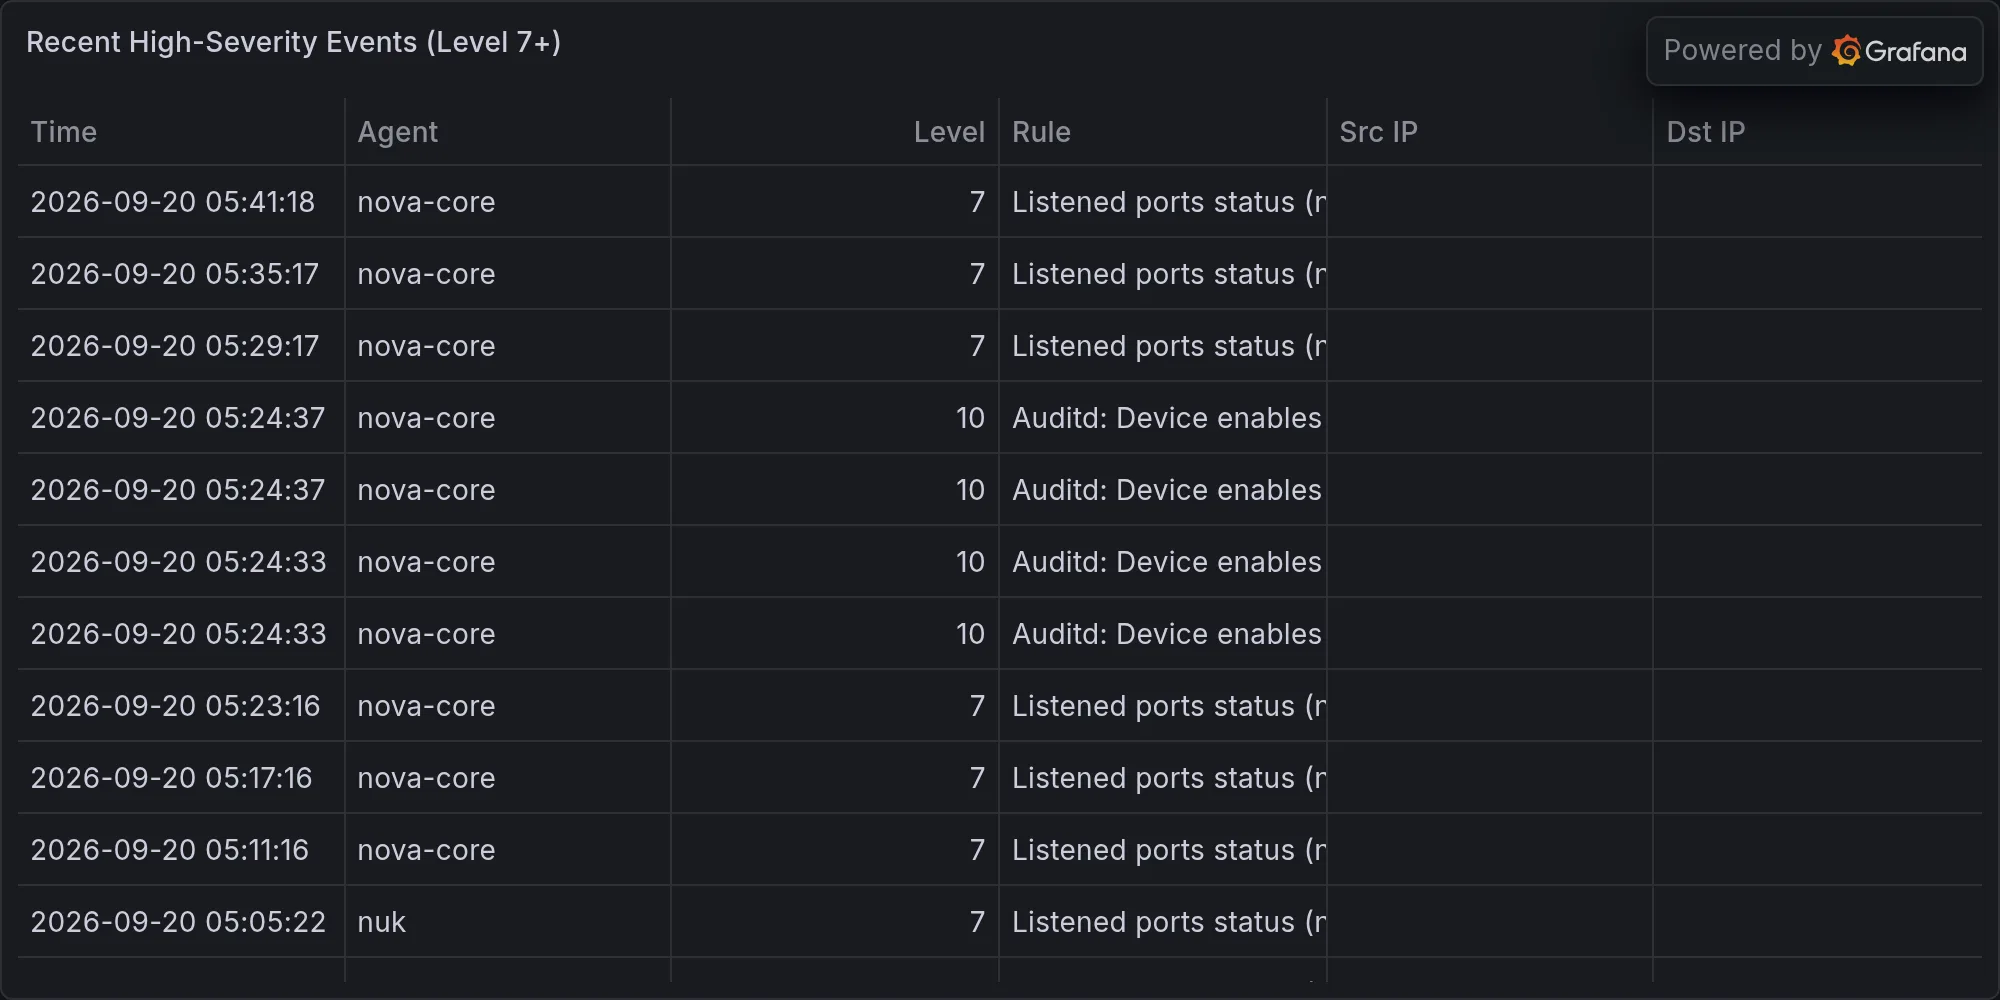
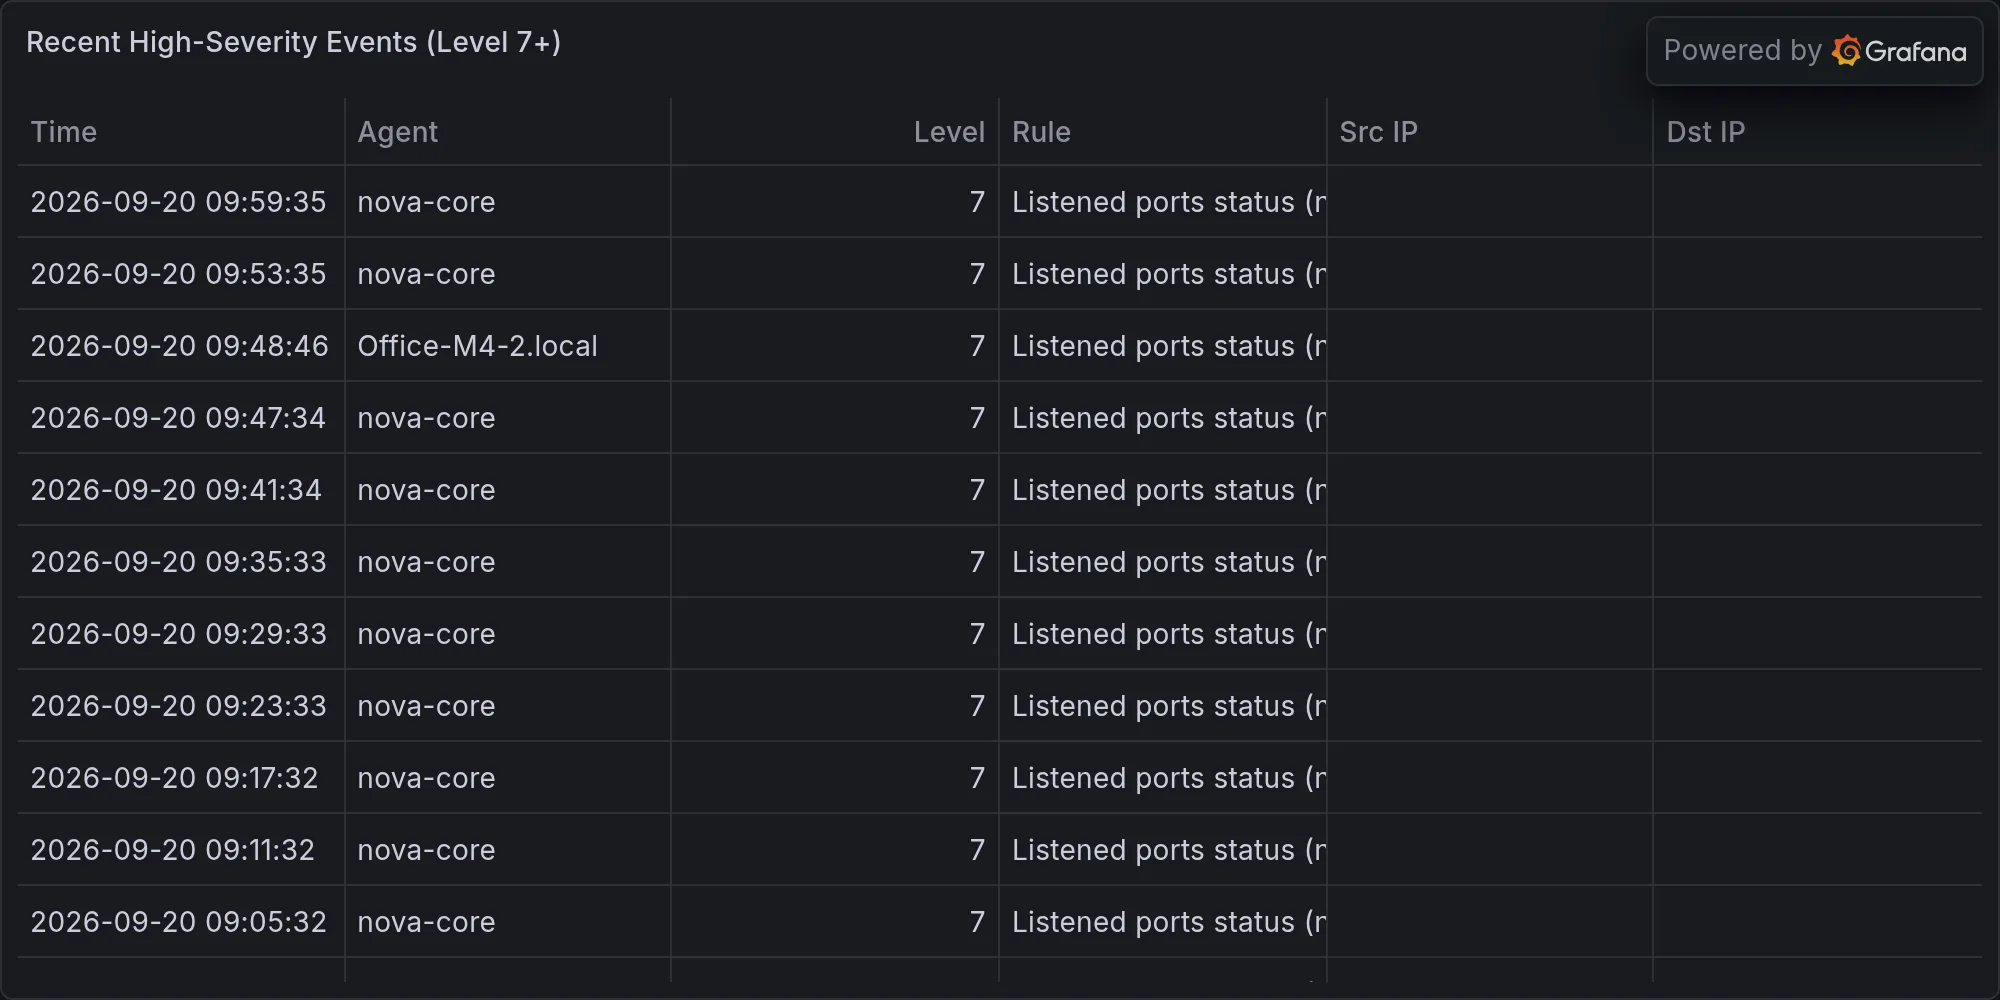
security: 2026-09-20 — **DEVELOPING — macOS Tahoe 26.7 Released; CVE Deta

diff --git a/content/operations/2026-09-20-developing-macos-tahoe-26-7-released-cve-details-unconfirmed.md b/content/operations/2026-09-20-developing-macos-tahoe-26-7-released-cve-details-unconfirmed.md
@@ -1,0 +1,45 @@
+---
+title: "🛡 **DEVELOPING — macOS Tahoe 26.7 Released; CVE Details Unconfirmed**"
+date: 2026-09-20T10:00:38-07:00
+draft: false
+categories: ["operations"]
+tags: ["breaking-alert", "apple-security-update-macos-tahoe-26-7", "security"]
+description: "BREAKING: Apple Security Update: macOS Tahoe 26.7"
+cover:
+  image: "/images/operations/2026-09-20-developing-macos-tahoe-26-7-released-cve-details-unconfirmed.webp"
+  alt: "**DEVELOPING — macOS Tahoe 26.7 Released; CVE Details Unconfirmed**"
+  relative: false
+---
+
+*Published Sunday, September 20, 2026 at 10:00 AM PT*
+
+![**DEVELOPING — macOS Tahoe 26.7 Released; CVE Details Unconfirmed**](/images/operations/2026-09-20-developing-macos-tahoe-26-7-released-cve-details-unconfirmed.webp)
+
+BLUF: Apple released macOS Tahoe 26.7 with security patches. CVE details and severity distribution cannot be confirmed from available material — the support.apple.com reference is cited but unaccessible. Recommend deferring deployment decisions until official CVE advisories are reviewed. Status: monitoring.
+
+DETAILS
+• macOS Tahoe 26.7 release confirmed; published to Apple's security support channel
+• Specific CVE counts and vulnerability classifications for 26.7 unavailable at this time
+• Historical context: Apple's recent Tahoe patches (26.5.2 and earlier) resolved 155+ macOS vulnerabilities across multiple severity tiers, with recurring WebKit and kernel issues
+• Apple has documented policy shift toward accelerated security release cadence in response to AI-powered attack trends (2026 pattern)
+• Support document URL (support.apple.com/en-us/100100) is the authoritative source but contents are not accessible to this alert
+
+IMPACT
+• Scope: All macOS Tahoe 26.7 deployable systems (applies across macOS releases running Tahoe base)
+• Until CVE review is complete, criticality and exploit likelihood cannot be assessed
+• No indication of zero-day exploitation at time of writing
+
+RECOMMENDED ACTIONS
+• Defer automatic deployment until Apple's official CVE advisory is reviewed directly
+• Check https://support.apple.com/en-us/100100 for patch details, severity ratings, and affected subsystems
+• For managed fleets (MDM/Mobile Device Manager): stage 26.7 in test environment pending CVE triage
+• Monitor security-digest feeds (ZDI, SecurityWeek) for third-party exploit analysis over next 48–72 hours
+
+SOURCES
+• Apple Security Updates (referenced, unconfirmed); historical context: SecurityWeek, ZeroDayInitiative monthly digests, macOS patch changelog 2026
+
+---
+
+**Recent high-severity events at publish time:**
+
+![Recent high-severity events](/images/operations/2026-09-20-breaking-alert-posture.webp)
